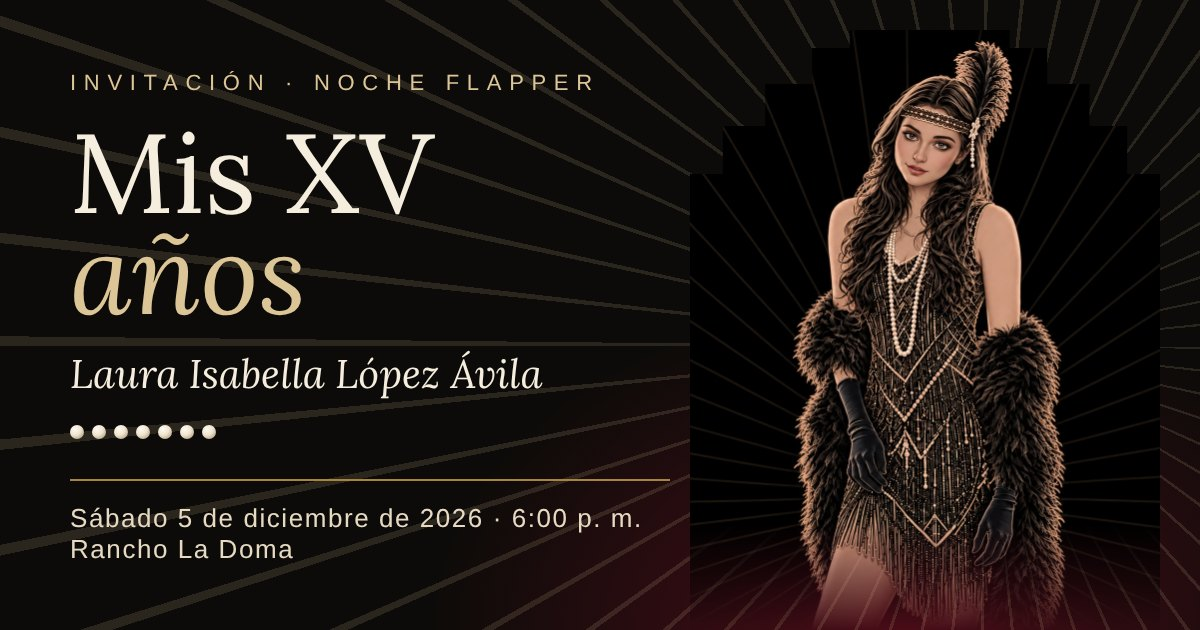
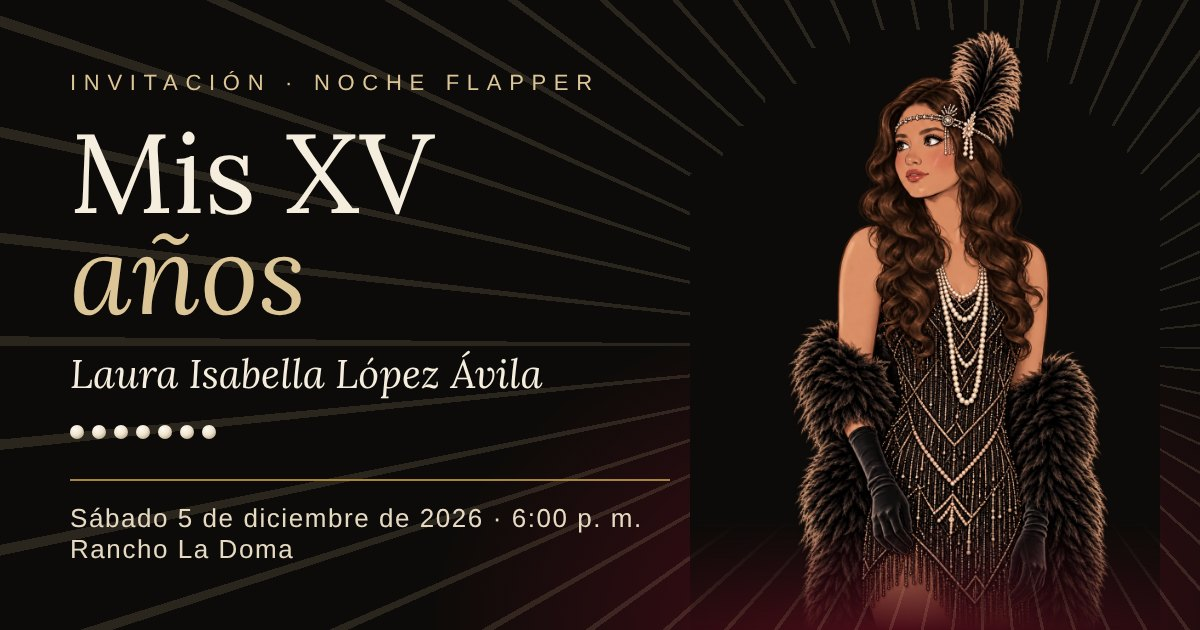
Traje tipo cóctel, nuevo texto de invitación y nueva foto de portada
Claude-Session: https://claude.ai/code/session_01XuaDegm8C4Fz956g2mNkSV

Changed region(s): [[0.6475, 0.0302, 0.925, 0.9952]]

diff --git a/css/estilos.css b/css/estilos.css
@@ -137,16 +137,25 @@ section,header,footer{position:relative;overflow:hidden}
 .curtain::after{content:"";position:absolute;left:0;right:0;bottom:22%;height:10px;background:linear-gradient(var(--oro-vivo),var(--oro));box-shadow:0 2px 6px rgba(0,0,0,.6)}
 .curtain--l{left:0;border-right:1px solid var(--oro)}
 .curtain--r{right:0;border-left:1px solid var(--oro)}
-.message__grid{display:grid;grid-template-columns:clamp(70px,10vw,130px) minmax(0,1fr) minmax(0,.62fr);gap:clamp(20px,4vw,56px);align-items:start}
-.message__strand{grid-row:1/span 2;align-self:stretch;min-height:420px;position:relative}
+.message__grid{display:grid;grid-template-columns:clamp(70px,10vw,130px) minmax(0,1fr) minmax(0,.62fr);column-gap:clamp(20px,4vw,56px);row-gap:clamp(22px,3vw,36px);align-items:center}
+.message__strand{grid-row:1/span 2;align-self:stretch;min-height:520px;position:relative}
 .message__strand svg{position:absolute;inset:-40px 0 -40px 0;width:100%;height:calc(100% + 80px)}
-.message__swag{display:none;width:220px;max-width:70%;margin-bottom:18px}
-.message h2{font-size:clamp(2.4rem,5.4vw,4.4rem);margin-top:18px;color:var(--marfil)}
-.message h2 em{color:var(--champagne)}
-.message__body{max-width:56ch;margin-top:30px;display:grid;gap:18px;font-size:1.12rem;color:var(--perla)}
-.message__body p:first-child::first-letter{font-family:var(--f-display);float:left;font-size:4.2em;line-height:.8;padding:.06em .1em 0 0;color:var(--champagne)}
-.message__aside{align-self:end;border-top:1px solid var(--oro);padding-top:18px;font-family:var(--f-display);font-style:italic;font-size:1.3rem;line-height:1.4;color:var(--champagne)}
-.gramophone{display:block;width:min(230px,70%);height:auto;margin:0 0 18px;filter:drop-shadow(0 18px 24px rgba(0,0,0,.55))}
+.message__eyebrow{grid-column:2/-1;display:flex;align-items:center;gap:22px}
+.message__eyebrow::after{content:"";flex:1;height:1px;background:linear-gradient(90deg,var(--oro),rgba(168,132,63,.5))}
+.message__main{text-align:center;min-width:0}
+.message__swag{display:none;width:220px;max-width:70%;margin:0 auto 18px}
+.message h2{color:var(--marfil);font-weight:400;line-height:.98;font-size:clamp(3rem,6.4vw,5.6rem);font-variation-settings:"opsz" 96;text-wrap:initial}
+.message h2 span{display:block}
+.message h2 em{display:block;margin-top:.04em;font-family:"Great Vibes","Pinyon Script","Snell Roundhand","Apple Chancery",cursive;font-style:normal;font-size:1.12em;line-height:1.05;
+  color:var(--oro-vivo);background:linear-gradient(100deg,#b8893a 0%,#f0d38c 38%,#c99a45 62%,#e8c77c 100%);-webkit-background-clip:text;background-clip:text;-webkit-text-fill-color:transparent;padding:0 .12em .08em}
+.m-div{display:flex;align-items:center;justify-content:center;gap:14px;max-width:420px;margin:clamp(18px,2.6vw,28px) auto;color:var(--oro-vivo)}
+.m-div::before,.m-div::after{content:"";flex:1;height:1px;background:linear-gradient(90deg,transparent,var(--oro))}
+.m-div::after{background:linear-gradient(90deg,var(--oro),transparent)}
+.m-div svg{width:20px;height:20px;fill:currentColor}
+.message__body{max-width:34ch;margin:0 auto;display:grid;gap:clamp(16px,2.2vw,26px);font-family:var(--f-display);font-weight:400;font-size:clamp(1.18rem,1.9vw,1.5rem);line-height:1.4;color:var(--perla)}
+.message__aside{display:flex;flex-direction:column;align-items:center;text-align:center;min-width:0}
+.gramophone{display:block;width:min(300px,88%);height:auto;margin:0 auto 22px;filter:drop-shadow(0 22px 28px rgba(0,0,0,.6))}
+.message__script{font-family:"Great Vibes","Pinyon Script","Snell Roundhand","Apple Chancery",cursive;font-size:clamp(1.6rem,2.5vw,2.1rem);line-height:1.25;color:var(--oro-vivo);max-width:16ch}
 
 /* ───────── CONTADOR (claqueta, blanco y negro) ───────── */
 .countdown{padding-block:clamp(72px,9vw,120px);background:radial-gradient(70% 80% at 50% 40%, #1a1a19 0%, var(--bn-negro) 70%);text-align:center}
@@ -287,8 +296,8 @@ section,header,footer{position:relative;overflow:hidden}
   .portrait__feather{left:-20%;width:56%}
   .beam{width:70vw;opacity:.8}
   .message__grid{grid-template-columns:56px minmax(0,1fr)}
+  .message__strand{grid-row:1/span 3;min-height:0}
   .message__aside{grid-column:2}
-  .message__strand{min-height:0}
   .event__grid,.dress__grid,.rsvp__grid{grid-template-columns:minmax(0,1fr)}
   .event__mask{max-width:340px;order:-1}
 }
@@ -302,8 +311,10 @@ section,header,footer{position:relative;overflow:hidden}
   .message__grid{grid-template-columns:minmax(0,1fr)}
   .message__strand{display:none}
   .message__aside{grid-column:1}
+  .message__eyebrow{grid-column:1}
   .message__swag{display:block}
-  .message__body{font-size:1.04rem}
+  .message__body{font-size:1.18rem}
+  .gramophone{width:min(220px,70%)}
   .clock{grid-template-columns:repeat(2,minmax(0,1fr));row-gap:18px}
   .unit:nth-child(3){border-left:0}
   .slate__row--3{grid-template-columns:1fr 1fr}

diff --git a/index.html b/index.html
@@ -26,8 +26,8 @@
 
 <link rel="preconnect" href="https://fonts.googleapis.com">
 <link rel="preconnect" href="https://fonts.gstatic.com" crossorigin>
-<link rel="stylesheet" href="https://fonts.googleapis.com/css2?family=Bodoni+Moda:ital,opsz,wght@0,6..96,400..700;1,6..96,400..600&family=Jost:wght@300;400;500&family=Poiret+One&display=swap">
-<link rel="preload" href="assets/quinceanera.jpg" as="image">
+<link rel="stylesheet" href="https://fonts.googleapis.com/css2?family=Bodoni+Moda:ital,opsz,wght@0,6..96,400..700;1,6..96,400..600&family=Jost:wght@300;400;500&family=Poiret+One&family=Great+Vibes&display=swap">
+<link rel="preload" href="assets/quinceanera.webp" as="image">
 <link rel="stylesheet" href="css/estilos.css">
 </head>
 <body>
@@ -120,18 +120,20 @@
   <span class="curtain curtain--r" aria-hidden="true"></span>
   <div class="wrap message__grid">
     <div class="message__strand" aria-hidden="true"><svg class="pearl-svg" viewBox="0 0 100 600" preserveAspectRatio="xMidYMid meet" data-strand="long"></svg></div>
-    <div class="rev">
+    <p class="eyebrow message__eyebrow">Una invitación</p>
+    <div class="message__main rev">
       <svg class="message__swag pearl-svg" viewBox="0 0 300 50" data-swag="msg" aria-hidden="true"></svg>
-      <p class="eyebrow">Una invitación</p>
-      <h2 id="msgTitle">Hay noches que merecen <em>brillar</em> como en los años veinte.</h2>
+      <h2 id="msgTitle"><span>La noche</span> <span>apenas</span> <em>comienza...</em></h2>
+      <div class="m-div" aria-hidden="true"><svg viewBox="-12 -12 24 24" aria-hidden="true"><path d="M0 -11 L2 -2 L11 0 L2 2 L0 11 L-2 2 L-11 0 L-2 -2Z"/></svg></div>
       <div class="message__body">
-        <p>Quince años no se cumplen todos los días. Por eso quiero celebrarlos a lo grande: con música, luces doradas, perlas, plumas y la gente que más quiero alrededor.</p>
-        <p>Tu presencia es parte de lo que hará especial esta noche. Ven a recorrer la alfombra roja conmigo, a bailar sin prisa y a guardar un recuerdo que, como las buenas fotografías de época, no pasará de moda.</p>
+        <p>Hay momentos que merecen celebrarse con todo el glamour. Mis quince años serán una noche de luces, música y elegancia.</p>
+        <p>Quiero compartir contigo una noche inolvidable.</p>
       </div>
+      <div class="m-div" aria-hidden="true"><svg viewBox="-12 -12 24 24" aria-hidden="true"><path d="M0 -11 L2 -2 L11 0 L2 2 L0 11 L-2 2 L-11 0 L-2 -2Z"/></svg></div>
     </div>
     <div class="message__aside rev">
       <img class="gramophone" src="assets/gramofono.webp" alt="" width="561" height="922" loading="lazy">
-      Prepárate para una noche de glamour, flashes y celebración.
+      <p class="message__script">Prepárate para una noche de glamour, flashes y celebración.</p>
     </div>
   </div>
 </section>
@@ -182,7 +184,7 @@
       <p class="eyebrow">La celebración</p>
       <h2 id="evTitle">Cuándo y dónde</h2>
       <figure class="ticket-img">
-        <img src="assets/ticket.webp" width="1774" height="866" alt="Pase de gala: Laura Isabella López Ávila presenta Una noche de gala, mis quince años, Noche Flapper (XV), con alfombra roja, años 20. Fecha: sábado 5 de diciembre de 2026. Hora: 6:00 p. m. Lugar: Rancho La Doma. Traje formal. Admit One." loading="lazy" decoding="async">
+        <img src="assets/ticket.webp" width="1774" height="866" alt="Pase de gala: Laura Isabella López Ávila presenta Una noche de gala, mis quince años, Noche Flapper (XV), con alfombra roja, años 20. Fecha: sábado 5 de diciembre de 2026. Hora: 6:00 p. m. Lugar: Rancho La Doma. Traje tipo cóctel. Admit One." loading="lazy" decoding="async">
       </figure>
       <p class="ticket-facts"><span data-bind="fechaLarga"></span> · <span data-bind="hora"></span> · <span data-bind="lugar"></span></p>
       <a class="btn btn--map" id="mapBtn" href="#" target="_blank" rel="noopener">
@@ -203,11 +205,11 @@
   <div class="wrap dress__grid">
     <div class="rev">
       <p class="eyebrow">Código de vestuario</p>
-      <h2 id="drTitle"><span data-bind="vestuario"></span>de gala</h2>
+      <h2 id="drTitle"><span data-bind="vestuario"></span>con glamour</h2>
       <svg class="dress__strands pearl-svg" viewBox="0 0 420 90" data-swag="dress" aria-hidden="true"></svg>
     </div>
     <div class="dress__copy rev">
-      <p class="lead">Viste tu mejor traje formal, como para recorrer la alfombra roja.</p>
+      <p class="lead">Viste tu mejor traje tipo cóctel, como para recorrer la alfombra roja.</p>
       <div class="reserved">
         <p class="eyebrow">Colores reservados</p>
         <ul class="swatches" aria-label="Tonos reservados">

diff --git a/js/invitacion.js b/js/invitacion.js
@@ -12,12 +12,12 @@ const EVENTO = {
   fechaClaqueta: "05 · 12 · 2026",
   hora: "6:00 p. m.",
   lugar: "Rancho La Doma",
-  vestuario: "Traje formal",
+  vestuario: "Traje tipo cóctel",
   whatsapp: "573158777684",                    // Prefijo +57 + número
   telefonoVisible: "+57 315 877 7684",
   limiteDia: "25",
   limiteTexto: "25 de noviembre de 2026",
-  foto: "assets/quinceanera.jpg",
+  foto: "assets/quinceanera.webp",
   mapa: "https://maps.app.goo.gl/Bq9iNpNo4b9584mU9?g_st=ic",
   fechaStub: "05.12.2026",
   sticker: ""                                  // ← Ruta del sticker PNG, p. ej. "assets/sticker.png"
